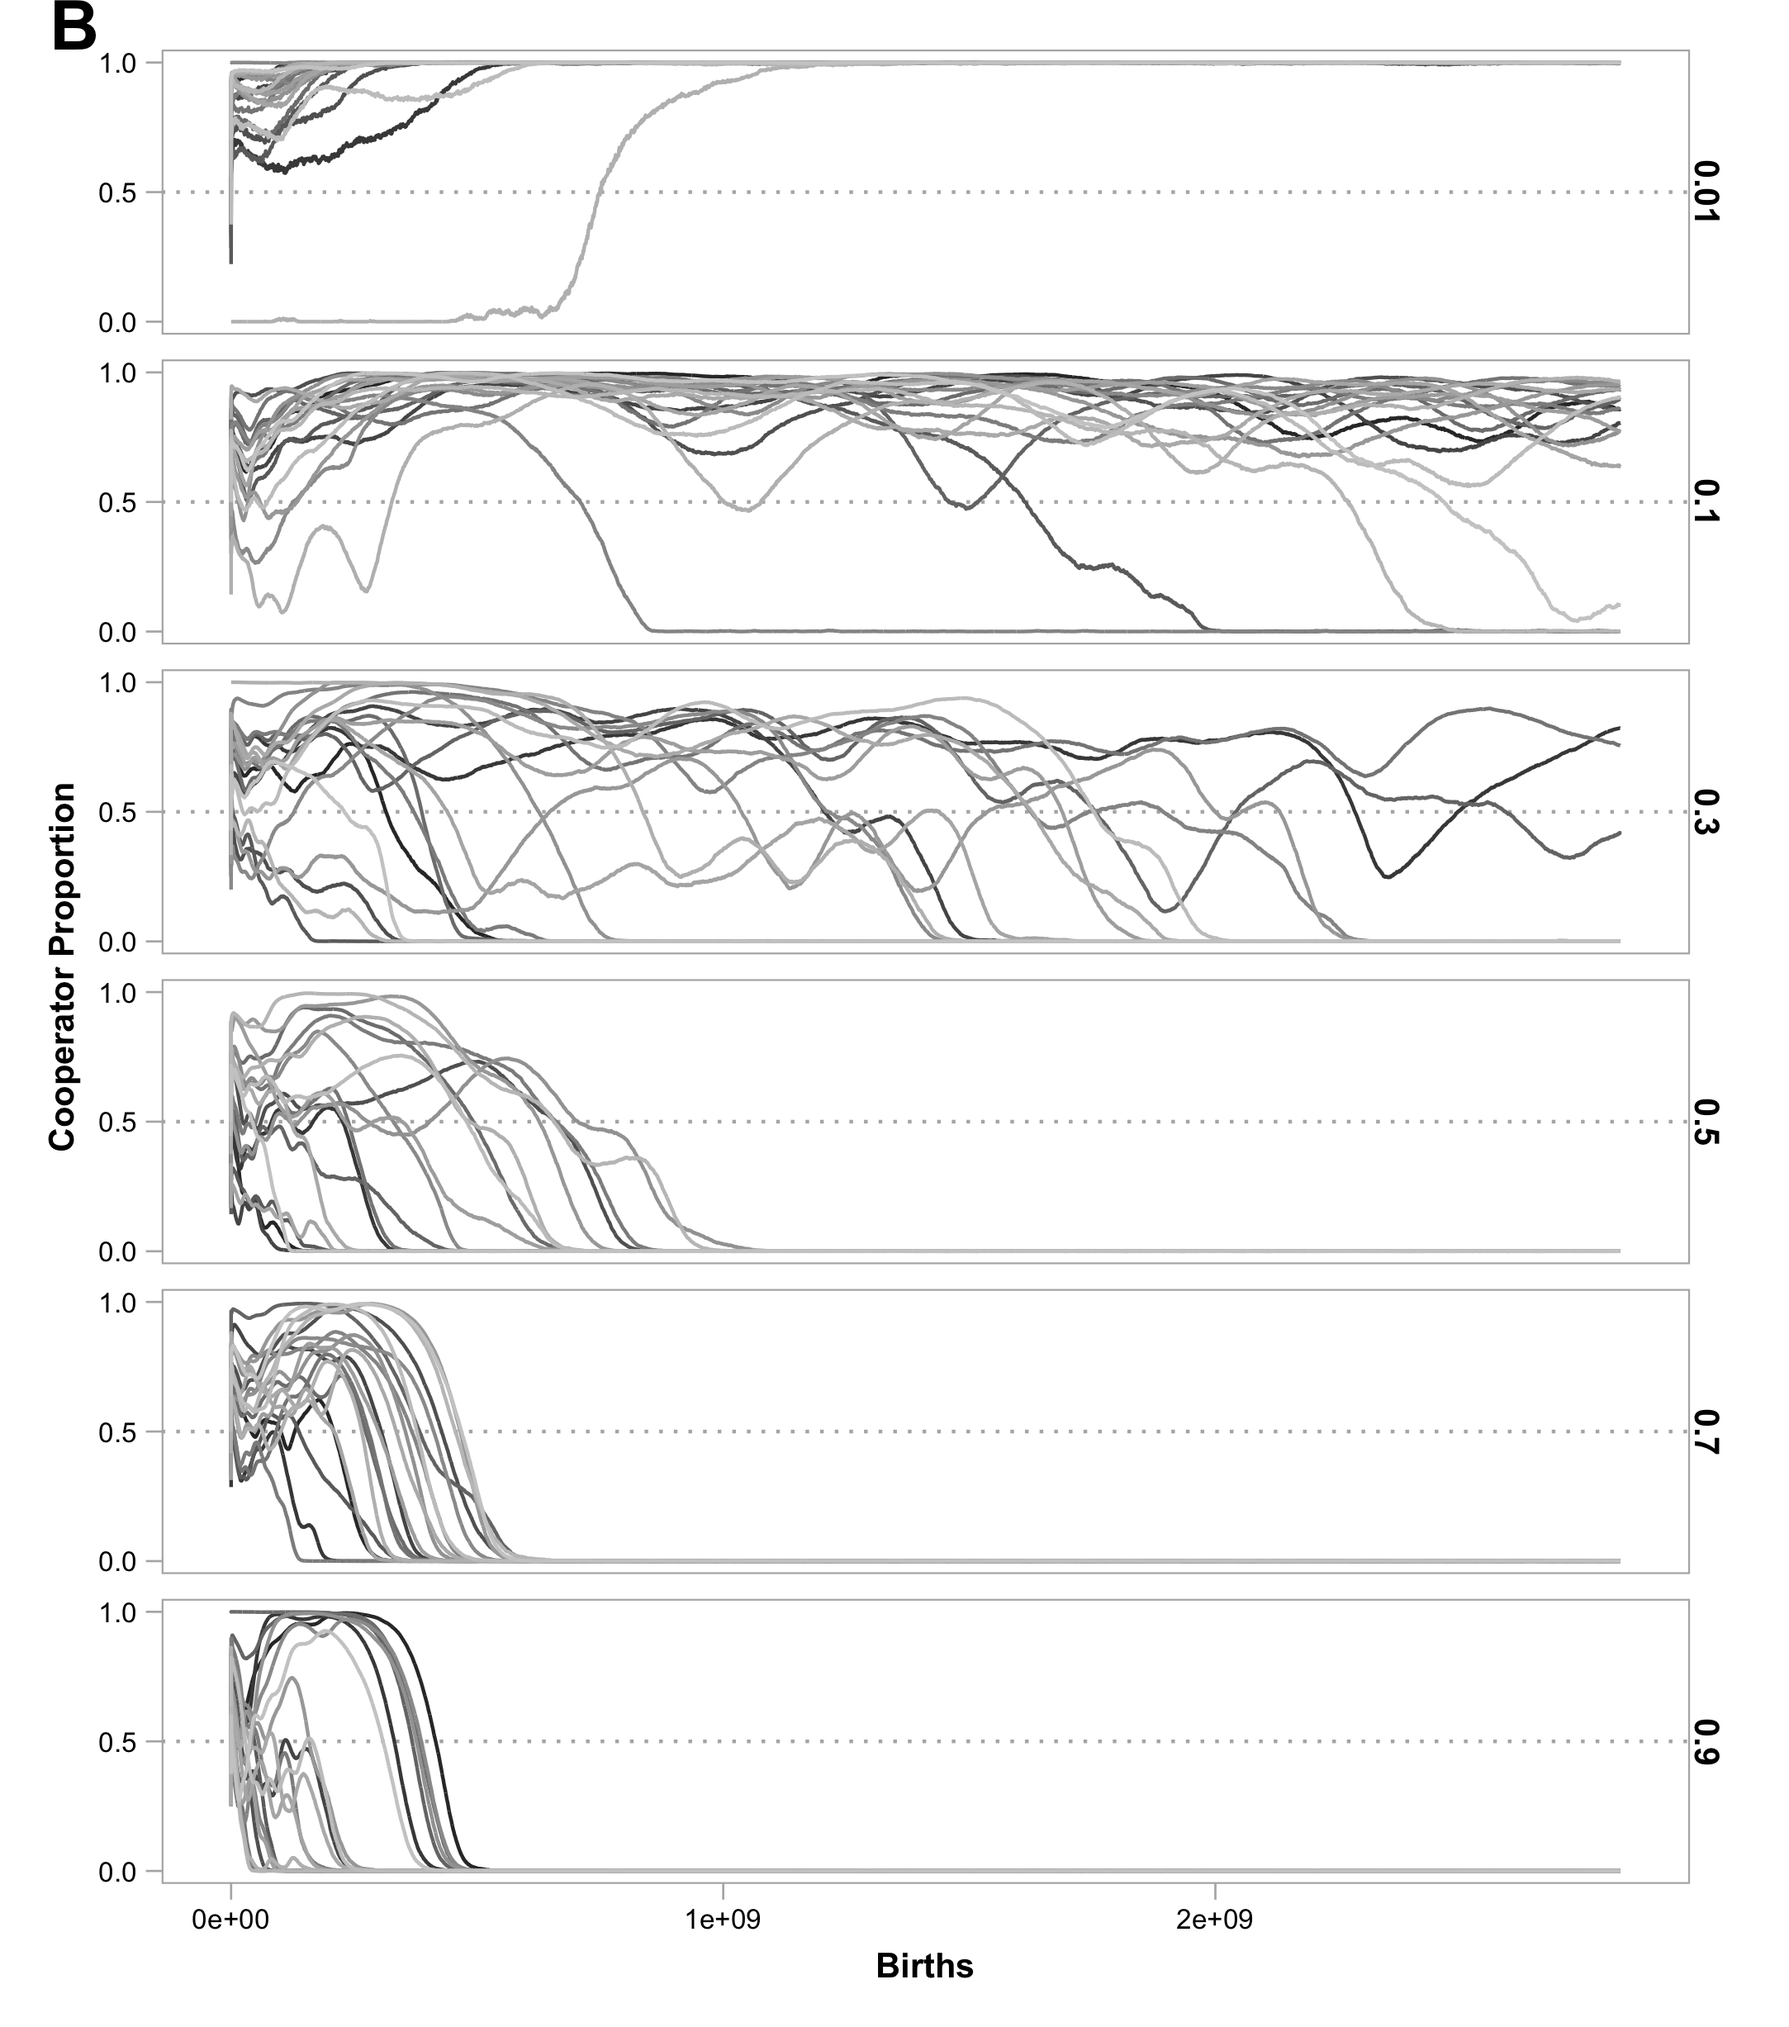
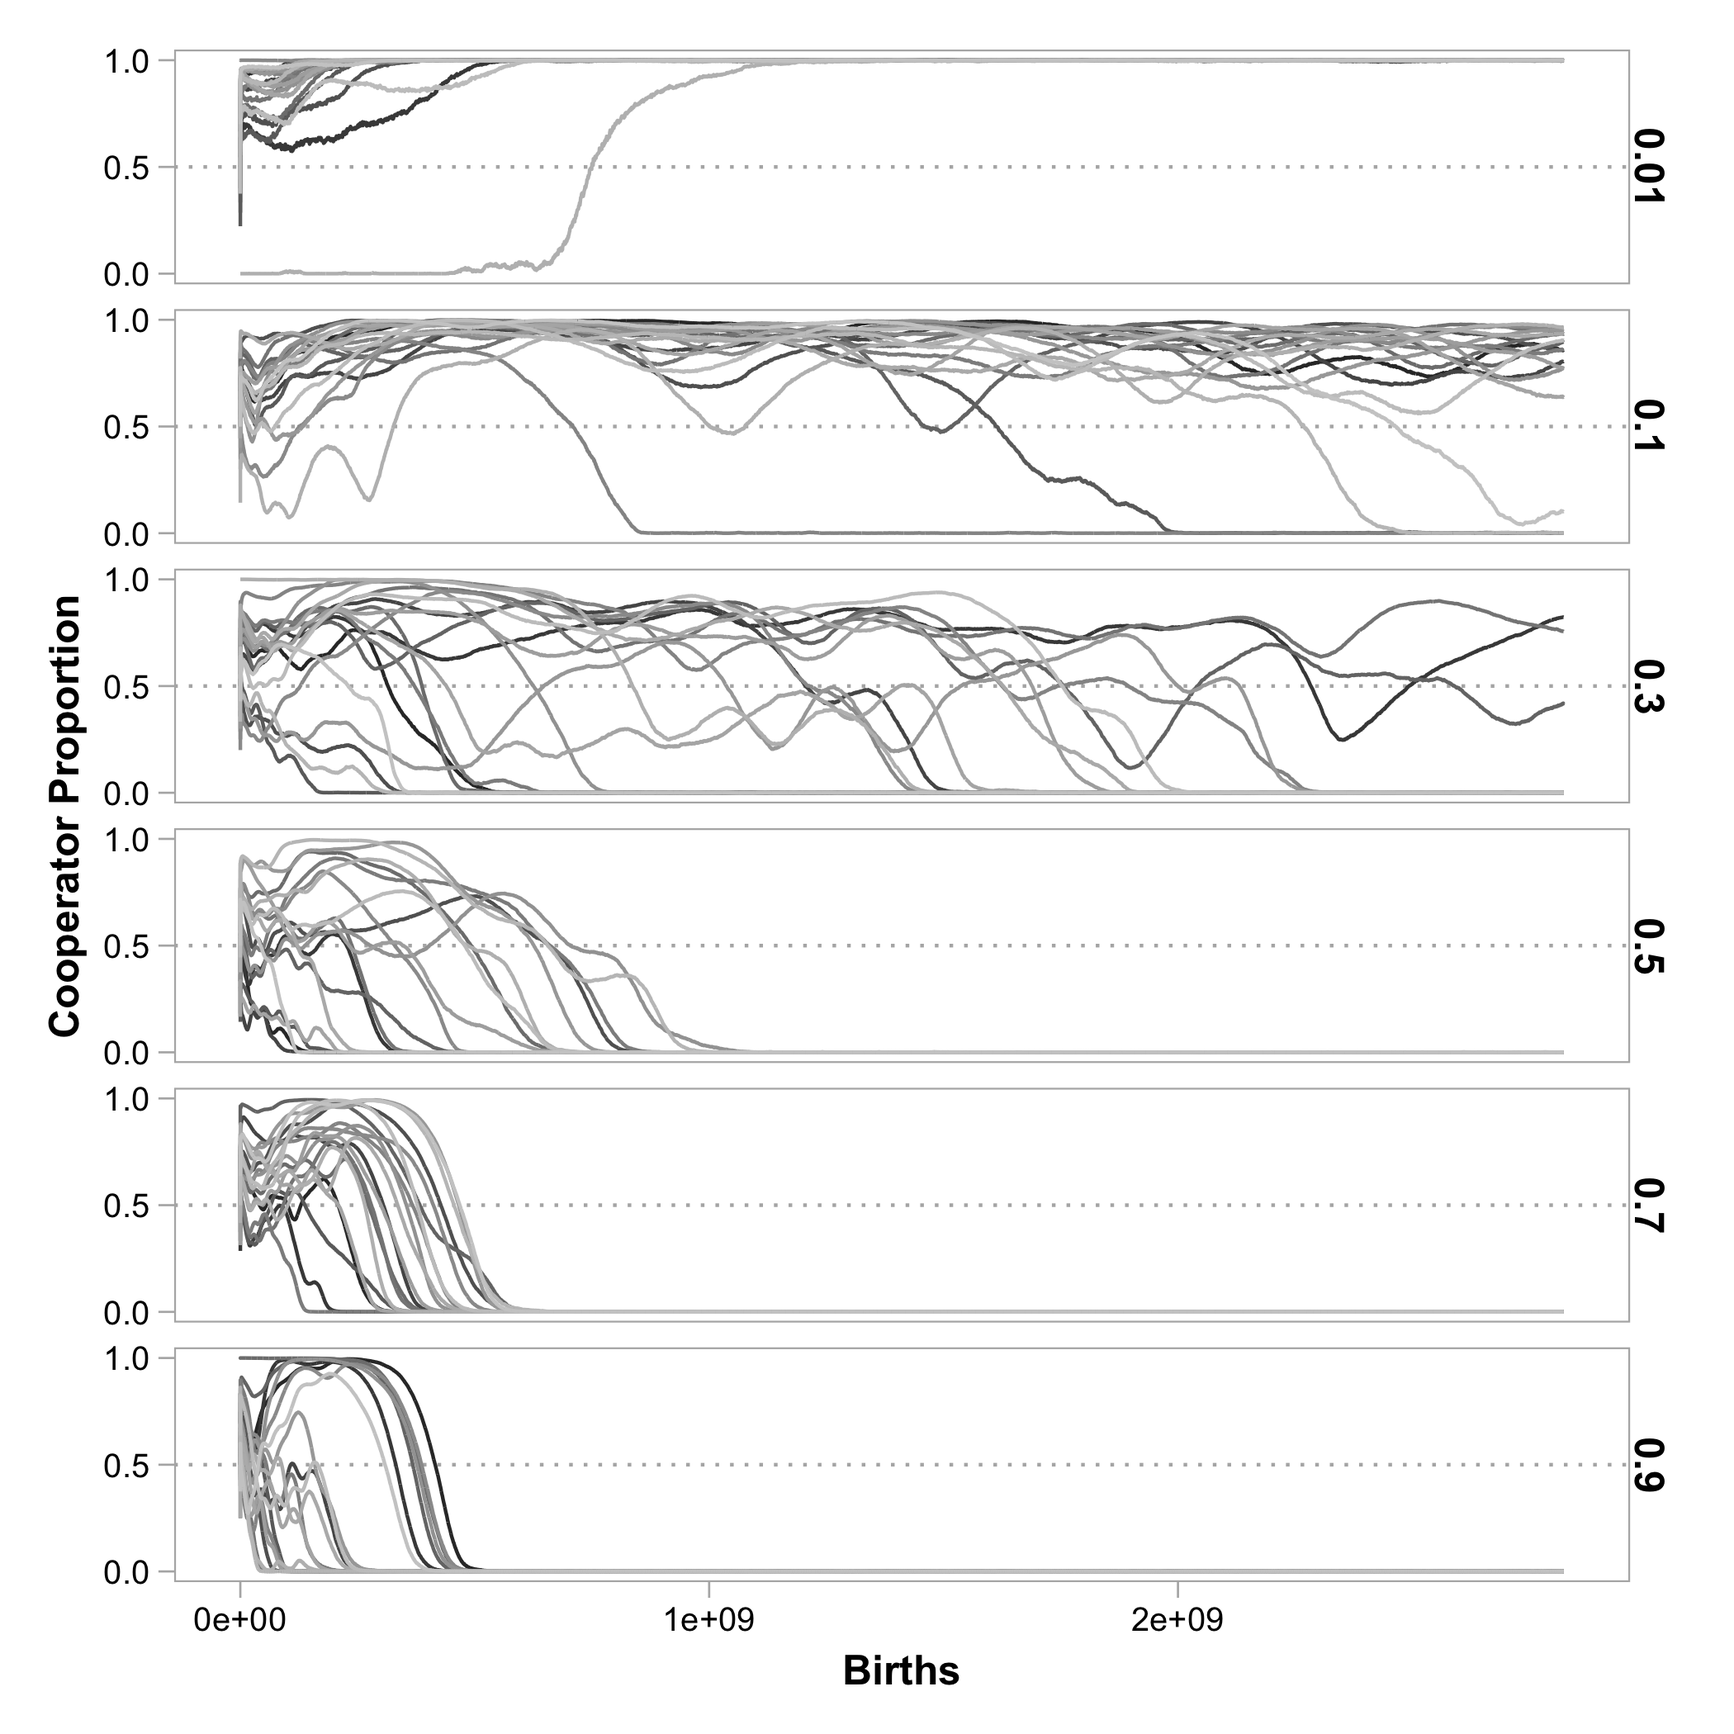
Supplement Update
- Added more text for the dilution survival rate sweep
- Updated dilution plots
- Updated initial cooperator proportion plots (darker points for
  inidividual cooperator presence values)

diff --git a/paper/supplementary_material.md b/paper/supplementary_material.md
@@ -12,6 +12,10 @@ fontsize: 12pt
 \setcounter{figure}{0}
 \setcounter{equation}{0}
 
+\footnotesize
+\tableofcontents
+\normalsize
+
 
 # Effect of Initial Cooperator Proportion
 
@@ -32,13 +36,19 @@ Figure @fig:initial_coop_prop_int shows that cooperator presence increases as in
 
 # Effect of Dilution Factor
 
-TODO: more description? See Figure @fig:dilution_births
+In our model, subpopulations are thinned at the end of each time step.
+This allows for growth during the next cycle.
+For the simulations described in the main text, the probability that each individual survived this bottleneck was fixed ($\sigma_d=0.1$).
+To explore how this factor affects the evolution of cooperation in our model, we performed simulations with varying dilution survival probabilities.
+Importantly, because dilution affects the amount of growth that can occur in the next simulation cycle, it directly affects the number of mutational opportunities that populations have.
+When more individuals survive dilution events, growth is reduced, and those populations adapt more slowly.
+To compensate for this effect and ensure equal adaptive opportunities, we calculated the average number of births that occur during simulations with baseline parameter values.
+The simulations described here were then run until populations surpassed this number, or approximately $2.8 \times 10^9$ births.
 
-![**Effect of Subpopulation Dilution.** Each panel shows the proportion of cooperators present in populations for a different dilution factor ($d$), which represents the proportion of individuals that survive the thinning that occurs during each simulation cycle. Because thinning affects the number of offspring produced during each cycle, and hence the number of mutational opportunities to gain adaptations, simulations proceeded until populations had reached $2.82\times 10^9$ births, which was the average number of births that occurred in simulations with baseline parameter values. TODO description of results](../figures/dilution-births.png) {#fig:dilution_births}
 
-![**TODO**. TODO](../figures/dilution-time.png) {#fig:dilution_time}
+![**Effect of Subpopulation Dilution.** Each panel shows the proportion of cooperators present for the duration of simulations with different dilution survival probabilities ($\sigma_d$), shown on the right. Because thinning affects the number of offspring produced during each cycle, and hence the number of mutational opportunities to gain adaptations, simulations proceeded until populations had reached $2.8 \times 10^9$ births, which was the average number of births that occurred in simulations with baseline parameter values. As the probability of survival increases, defectors pose a greater threat. Here, lines represent replicate populations.](../figures/dilution-births.png) {#fig:dilution_births}
 
-![**TODO**. TODO Solid points indicate the mean of replicate populations (open circles), and error bars indicate bootstrapped 95% confidence intervals (1000 resamples).](../figures/dilution-births-integral.png) {#fig:dilution_births_int}
+![**Subpopulation Dilution and Cooperator Presence**. Cooperator presence rapidly decreases as the probability of surviving periodic dilution ($\sigma_d$) increases. Solid points indicate the mean of replicate populations (open circles), and error bars indicate bootstrapped 95% confidence intervals (1000 resamples).](../figures/dilution-births-integral.png) {#fig:dilution_births_int}
 
 
 
